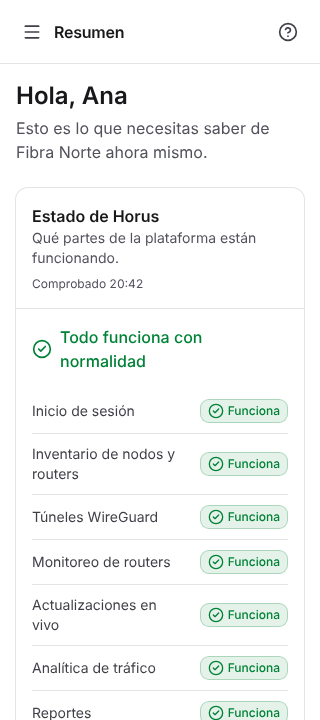
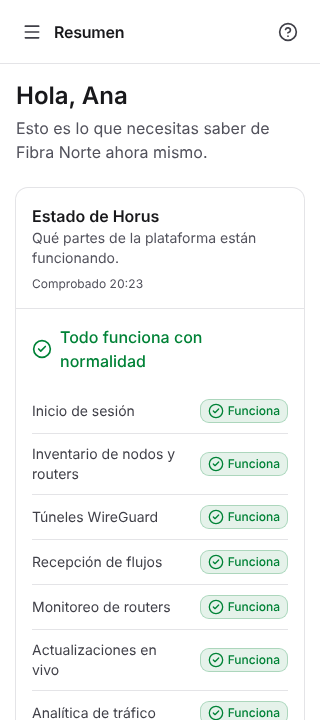
docs(frontend): README de I0-15/I0-16 y capturas de selector de ISP y dashboards [I0-16]
Capturas: selector de ISP abierto (claro), NOC del ISP oscuro 1920×1080 (app y vista mural),
Seguridad claro 1920×1080, estados por widget y galería de widgets normal/mural.

Claude-Session: https://claude.ai/code/session_01Bs3Vo3c1ixvSXayXbVC8JA

diff --git a/apps/frontend/README.md b/apps/frontend/README.md
@@ -3,10 +3,9 @@
 - **Propósito:** UI multi-ISP: shell, selector de ISP, marco de widgets, vistas, dashboards y modo
   kiosco/NOC.
 - **Dueño:** UI — [`docs/backlog/team.md`](../../docs/backlog/team.md) §2.
-- **Estado (I0-14):** proyecto Nuxt (SPA), login con paso de TOTP, layout principal con la
-  navegación del I1, tema Sistema/Claro/Oscuro, i18n `es`, estados de carga/vacío/error y cliente
-  de API contra una **API simulada** en memoria. La API real, el cliente generado del OpenAPI y el
-  selector de ISP llegan en **I0-15**.
+- **Estado:** I0-14 (shell, login con TOTP, tema, i18n, estados), **I0-15** (cliente generado del
+  OpenAPI, token por ISP, selector de ISP, API simulada del contrato) e **I0-16** (marco de
+  widgets v0 con las plantillas "NOC del ISP" y "Seguridad", vista mural).
 - **Documentación:** [`docs/frontend.md`](../../docs/frontend.md),
   [`docs/conventions.md`](../../docs/conventions.md) §3,
   [ADR-0012](../../docs/adr/0012-nuxt4-nuxt-ui.md), API en [`docs/api.md`](../../docs/api.md).
@@ -17,58 +16,94 @@ Requisitos: Node ≥ 22.12 y pnpm 10 (`corepack enable`).
 
 ```sh
 pnpm install            # instala y ejecuta `nuxt prepare`
-pnpm dev                # http://localhost:3000 con la API simulada
-pnpm lint               # ESLint (@nuxt/eslint + prettier) y prettier --check
-pnpm typecheck          # vue-tsc (strict)
-pnpm test               # Vitest (tests/unit)
-pnpm build              # nuxt generate → .output/public (estáticos para Traefik)
-pnpm e2e --grep @i0     # Playwright contra la build (la genera si no existe E2E_NO_BUILD=1)
-pnpm screenshots        # capturas claro/oscuro en docs/screenshots/
+pnpm dev                # contra el gateway (apiBase /api/v1)
+pnpm dev:mocks          # HORUS_UI_MOCKS=1: API simulada generada del contrato
+pnpm api:generate       # regenera types/api/* desde packages/schemas (C5, C9)
+pnpm lint               # api:check + ESLint + prettier --check
+pnpm typecheck          # vue-tsc (strict); valida también los manifiestos de widget
+pnpm test               # Vitest (tests/unit); `pnpm test widgets` = marco de widgets
+pnpm build              # nuxt generate contra el gateway → .output/public
+pnpm build:mocks        # igual, con la API simulada (demos y e2e)
+pnpm e2e --grep @tenant # Playwright (construye con build:mocks si no hay E2E_NO_BUILD=1)
+pnpm e2e --grep @widgets
+pnpm screenshots        # capturas en docs/screenshots/
 ```
 
+`HORUS_UI_MOCKS=1` decide en la build si la SPA usa la API simulada (I0-15, criterio 4): en una
+SPA generada el valor queda fijado, por eso hay `build:mocks`. Con `E2E_NO_BUILD=1` los e2e
+reutilizan `.output/public`, que debe venir de `pnpm build:mocks`.
+
 Playwright usa el Chromium de `PLAYWRIGHT_BROWSERS_PATH`; `@playwright/test` está fijado a la
-versión que corresponde a ese navegador (1.56.1 ↔ chromium-1194). No se ejecuta
-`playwright install`.
+versión de ese navegador (1.56.1 ↔ chromium-1194). No se ejecuta `playwright install`.
 
 ### Cuentas de la API simulada
 
-| Correo                        | Contraseña        | 2FA (TOTP) | Qué ve                                           |
-| ----------------------------- | ----------------- | ---------- | ------------------------------------------------ |
-| `ana.ruiz@fibranorte.example` | `horus-demo-2026` | `123456`   | `tenant_admin` de 2 ISP + `platform_admin`       |
-| `noc@fibranorte.example`      | `horus-demo-2026` | —          | rol `noc` de Fibra Norte (sin Clientes ni admin) |
+| Correo                        | Contraseña        | 2FA      | Qué ve                                                                                            |
+| ----------------------------- | ----------------- | -------- | ------------------------------------------------------------------------------------------------- |
+| `ana.ruiz@fibranorte.example` | `horus-demo-2026` | `123456` | `tenant_admin` de Fibra Norte y Valle Conecta, `security_analyst` de Red Andina, `platform_admin` |
+| `noc@fibranorte.example`      | `horus-demo-2026` | —        | rol `noc` de Fibra Norte (sin Clientes, sin `top_customers`, IP enmascaradas)                     |
 
-Escenarios: `localStorage['horus.mock.scenario'] = 'degraded' | 'system-error'`. La API simulada
-solo se carga si `NUXT_PUBLIC_API_MOCK` no es `false` (va en un chunk aparte).
+Escenarios: `localStorage['horus.mock.scenario']` = `degraded` (analítica caída, un exportador
+silencioso) · `system-error` · `widget-error` (dos widgets fallan una vez) · `empty`.
+`localStorage['horus.mock.tokenTtlMs']` acorta la vida del token para probar el refresh.
 
-## Estructura
+## Cliente de API (I0-15)
 
-```
-app/
-├── app.vue · app.config.ts · error.vue
-├── assets/css/main.css      tokens de tema (contraste AA en claro/oscuro, reduced-*)
-├── layouts/                 default (shell) · auth (login)
-├── pages/                   login · index (elige ISP) · t/[slug]/ (Resumen + secciones)
-│                            platform/[...section] · account
-├── components/              shell/ (AppPage, UserMenu, AppLogo, SectionPage) · tenant/
-│                            states/ (Loading/Empty/ErrorState) · status/
-├── composables/             useAuth (sesión, token en memoria) · useTenant · useNavigation
-├── middleware/              auth.global (refresh al cargar) · tenant.global (404 si no es miembro)
-├── plugins/api.ts           cliente único: Bearer en memoria, refresh único ante 401
-└── utils/                   api-client · navigation (mapa §4) · permissions · errors · redirect
-i18n/locales/es.json         textos (español por defecto)
-mocks/                       API simulada (I0-14; en I0-15, handlers generados del OpenAPI)
-shared/api/types.ts          tipos provisionales del contrato (I0-15: generados)
-tests/unit · tests/e2e       Vitest · Playwright + axe
-docs/screenshots/            capturas para revisión
-```
+- `scripts/generate-api.mjs` genera, de forma reproducible (mismo contrato ⇒ mismos bytes):
+  `types/api/schema.d.ts` (openapi-typescript desde `packages/schemas/openapi/dist/horus-api.v0.yaml`),
+  `types/api/widget-catalog.ts` (catálogo C9 como constante) y copias de plantillas y ejemplos
+  en `types/api/contract/`. `pnpm lint` falla si están desactualizados. Alias legibles en
+  `types/api/index.ts`.
+- `$api` = `openapi-fetch` tipado (`unwrap($api.GET('/me'))`). `createAuthFetch` pone el token
+  según la ruta (sesión para `/me` y `/auth/*`, ISP para el resto), la cabecera anti-CSRF y
+  hace un único refresh ante 401 con reintento transparente; serializado **entre pestañas** con
+  Web Locks (el refresh rota y su reutilización revoca la sesión) y cierre de sesión propagado
+  por `BroadcastChannel`. Tokens solo en memoria.
+- Al entrar en un ISP (`middleware/tenant.global.ts`): `POST /auth/token {tenant_id}`; si cambia,
+  `resetTenantData` vacía `useAsyncData`, la caché por ISP y las suscripciones de tiempo real.
+- Selector (`components/tenant/TenantSwitcher.vue`): solo con más de un ISP, búsqueda con más de
+  7, también en ⌘K; conserva la sección (`tenantSwitchPath`) y recuerda el último ISP.
+- API simulada (`mocks/server.ts`): un `fetch` tipado con el contrato que reproduce tokens por
+  ámbito, `TENANT_NOT_FOUND`, `TOKEN_SCOPE_INVALID`, `WIDGET_TYPE_NOT_ALLOWED`, enmascarado de
+  IP y datos de widget (`mocks/widget-data.ts`, deterministas por ISP); `mocks/realtime.ts`
+  emite `traffic.summary` (C6).
+
+## Marco de widgets (I0-16)
+
+- `app/widgets/<type>/{manifest.ts, Widget.vue}`; registro por convención de carpeta
+  (`app/widgets/registry.ts`, componentes bajo demanda: ECharts no entra en el bundle inicial).
+  `_example/` es la plantilla documentada para crear uno nuevo.
+- El manifiesto (C9 `presentation-manifest`) se comprueba en **typecheck** (tipo del catálogo y
+  tamaños permitidos) y en el **build** (`modules/widget-manifests.ts`): uno inválido rompe
+  `nuxt generate`.
+- `DashboardGrid`: 12 columnas con `row_height_px`, adaptación §5.2 por ancho del contenedor,
+  vista mural (`?scale=wall`) a pantalla completa con escala `--u` = altura/1080 (KPI 72 px,
+  títulos 28, etiquetas 22, nada < 20). `WidgetHost`: carga, vacío, error con "Reintentar",
+  sin permiso, degradado (503), datos parciales y frescura (fresco/atrasado/obsoleto).
+- Widgets: `noc_header`, `traffic_now` (en vivo), `customers_active`, `findings_summary`,
+  `botnet_signals`, `exporters_status`, `traffic_timeseries`, `top_categories`, `top_customers`,
+  `findings_feed`, `findings_trend`, `security_by_node`, `watched_ports`.
+- Paleta de gráficos validada con el validador de la skill dataviz (`utils/chart-palette.ts`).
+- Galería: `/t/:slug/dev/widgets` (escala normal y `?scale=wall`).
+
+## Pendientes
+
+- **Claves de `data` por tipo de widget:** C9 fija el sobre pero no los `values`/columnas de cada
+  tipo; la lectura del frontend está en `app/widgets/shapes.ts` y debe acordarse con `analytics`.
+- Cliente WebSocket real (ticket, reconexión, re-suscripción) e indicador de conexión: I1.
+- Kiosco (`/kiosk`, credencial de dispositivo, rotación, wake lock): I1.
+- CI: el job `frontend` no ejecuta Playwright; `e2e --grep @tenant` y `@widgets` se corren a mano.
+- Las plantillas del contrato dejan huecos en la grilla (p. ej. NOC fila 8, Seguridad filas 4–5);
+  se respetan tal cual.
 
 ## Decisiones
 
-- **SPA** (`ssr: false`) generada con `nuxt generate`; iconos Lucide empaquetados en el cliente y
-  sin fuentes remotas (CSP `connect-src 'self'`).
-- **Sesión:** access token solo en memoria (`useState`); refresh con cookie HttpOnly y
-  `X-Requested-With: horus`; sin Pinia (conventions.md §3.4). La API simulada guarda su "cookie"
-  en `sessionStorage` solo dentro de `mocks/`, porque una cookie HttpOnly no se puede simular.
+- **SPA** (`ssr: false`) generada con `nuxt generate`; iconos Lucide empaquetados y sin fuentes
+  remotas (CSP `connect-src 'self'`).
+- **Sesión:** access token en memoria (`useState`); refresh con cookie HttpOnly y
+  `X-Requested-With: horus`; sin Pinia. La API simulada guarda su "cookie" en `sessionStorage`
+  solo dentro de `mocks/`.
 - **Navegación:** fuente única en `app/utils/navigation.ts`; aparición progresiva por incremento
-  (`NUXT_PUBLIC_NAV_INCREMENT`, por defecto `I1`) y secciones **ocultas** sin permiso.
-- **Marca provisional** (P-20 abierta): `primary` teal (700 en claro, 500 en oscuro), neutros zinc.
+  (`NUXT_PUBLIC_NAV_INCREMENT`) y secciones **ocultas** sin permiso.
+- **D18:** el estado `infected` se muestra como "Infectado", siempre con su confianza.
+- **Marca provisional** (P-20 abierta): `primary` teal, neutros zinc.
